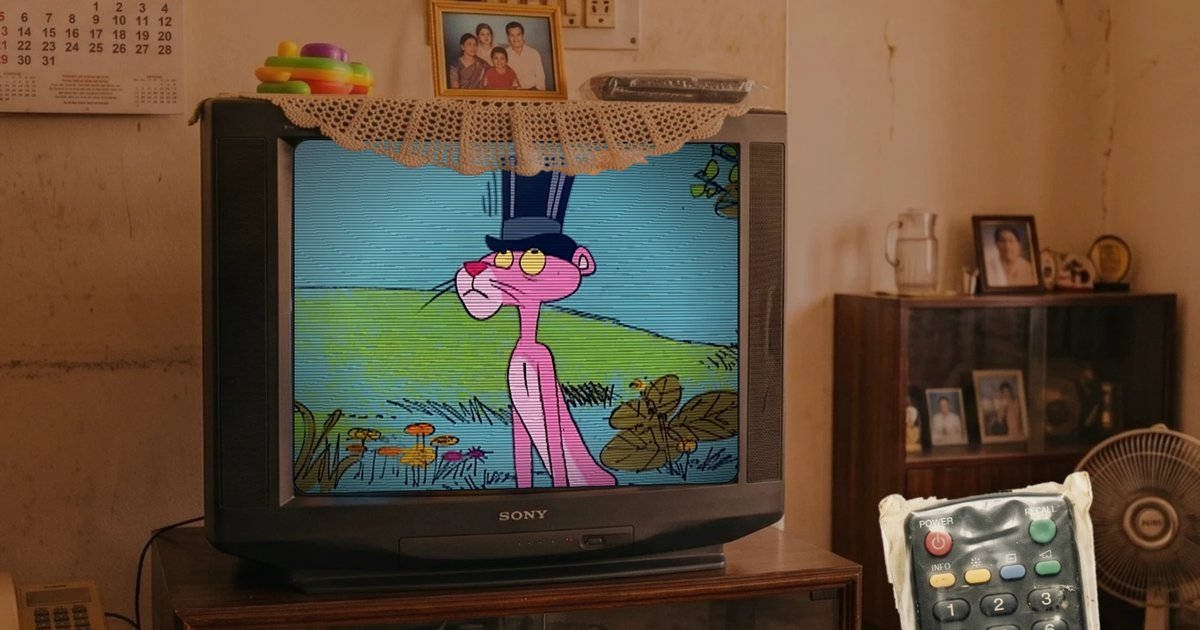
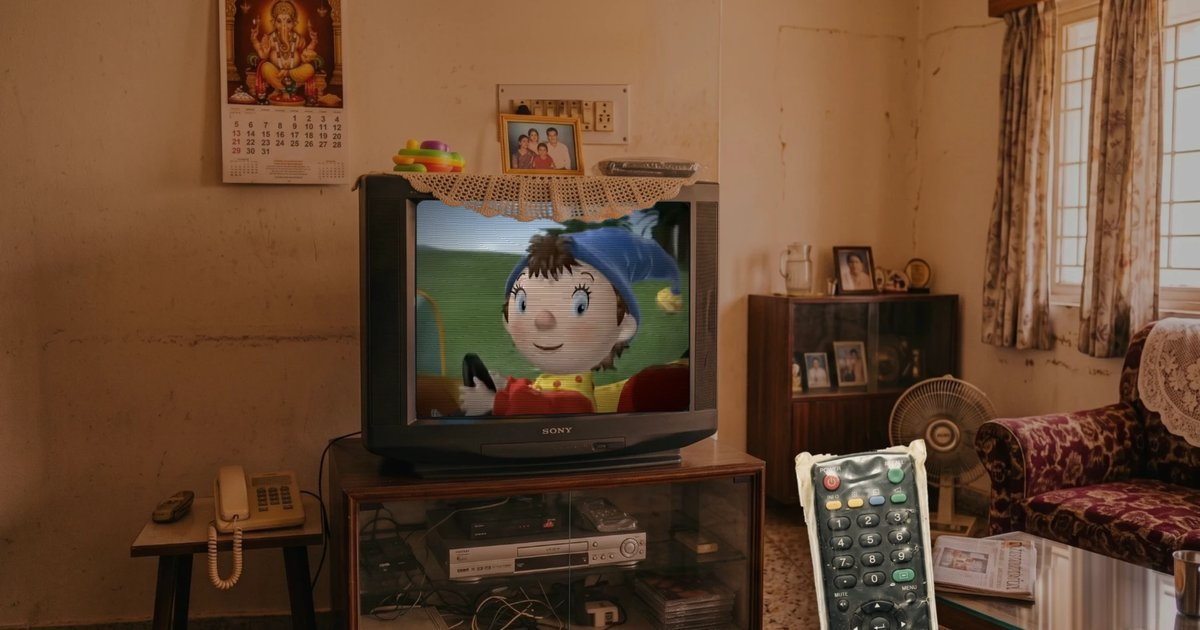
New link preview image (Noddy on the TV)

diff --git a/index.html b/index.html
@@ -10,10 +10,10 @@
 <meta property="og:url" content="https://chhuttitv.ayushiprakash.com/">
 <meta property="og:title" content="Chhutti TV">
 <meta property="og:description" content="A 90s Indian living room with a working CRT TV. Pick up the remote and flip through the cartoons you grew up with.">
-<meta property="og:image" content="https://chhuttitv.ayushiprakash.com/assets/share.jpg?v=1">
+<meta property="og:image" content="https://chhuttitv.ayushiprakash.com/assets/share.jpg?v=2">
 <meta property="og:image:width" content="1200">
 <meta property="og:image:height" content="630">
-<meta property="og:image:alt" content="A Sony CRT TV playing the Pink Panther in a warm Indian living room, with a remote in a plastic cover">
+<meta property="og:image:alt" content="A Sony CRT TV playing Noddy in a warm Indian living room, with a remote in a plastic cover">
 <meta name="twitter:card" content="summary_large_image">
 <link rel="preconnect" href="https://fonts.googleapis.com">
 <link rel="icon" type="image/svg+xml" href="assets/favicon.svg?v=6">
